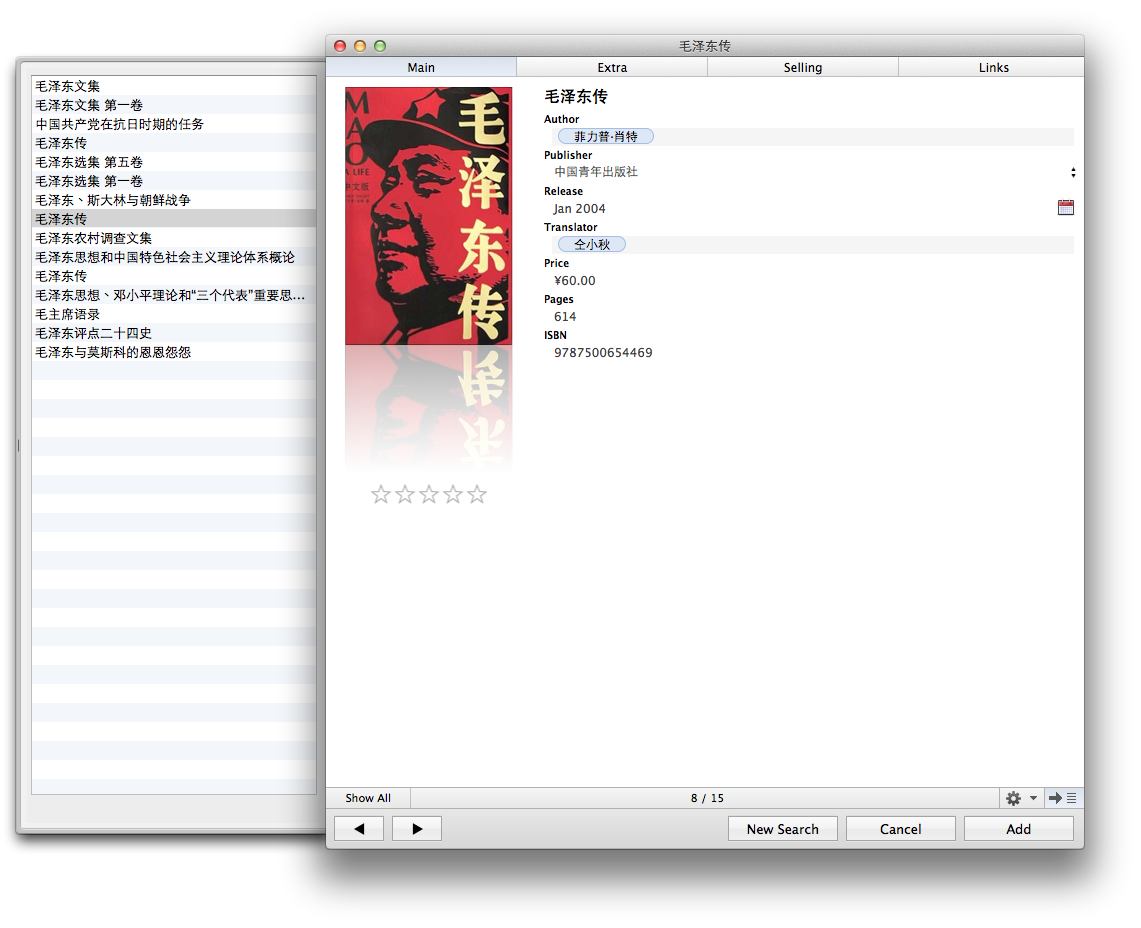
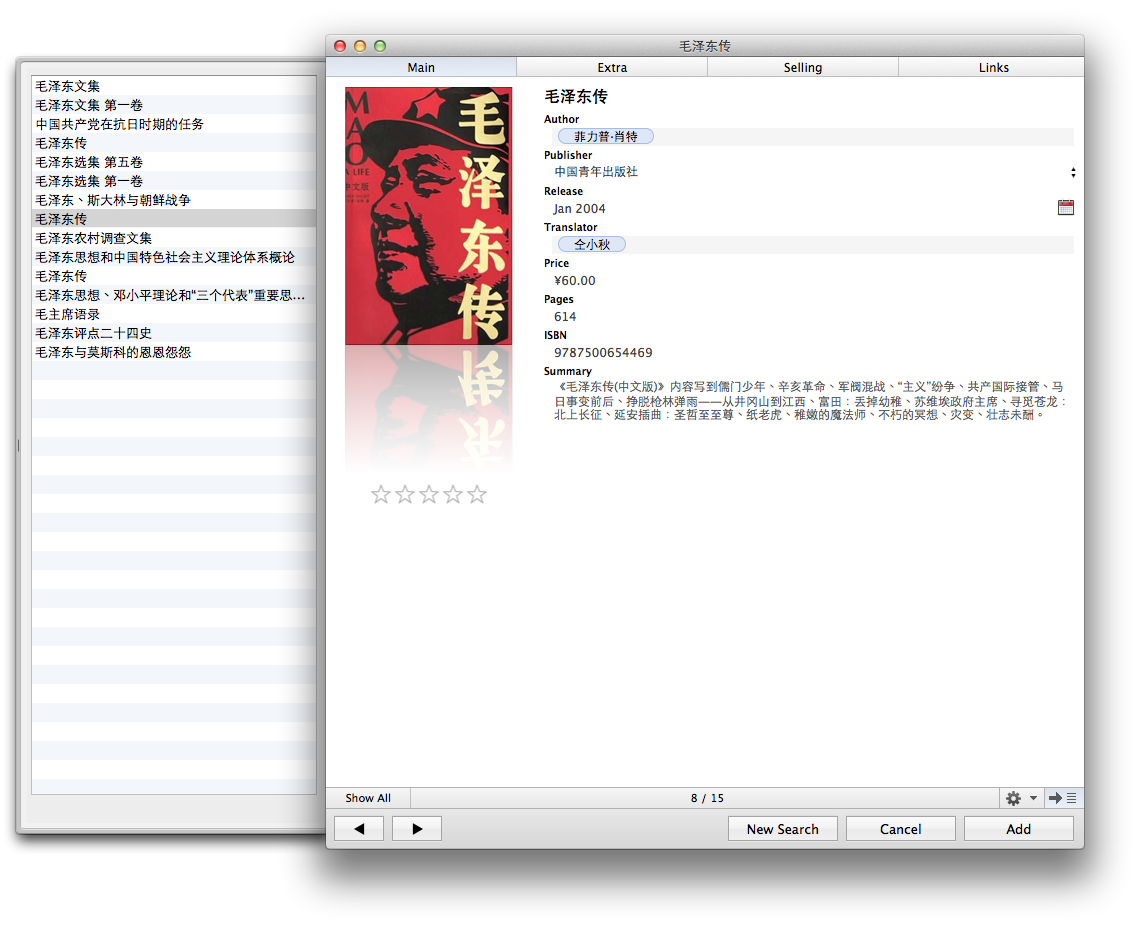
Handle summary text

Changed region(s): [[0.4908, 0.375, 0.9509, 0.4688]]

diff --git a/DoubanBooks.m b/DoubanBooks.m
@@ -107,6 +107,14 @@
 		[self setResult:resultsDict infoDiv:infoDiv];
 	}
 
+	// Summary
+
+	NSString * introDiv = [html stringBetween:@"class=\"intro\"" and:@"<style>"];
+
+	if (introDiv) {
+		[resultsDict setObject:[introDiv stringBetween:@"<p>" and:@"</p>"] forKey:MKKeyEntrySummary];
+	}
+
 	return resultsDict;
 }
 
